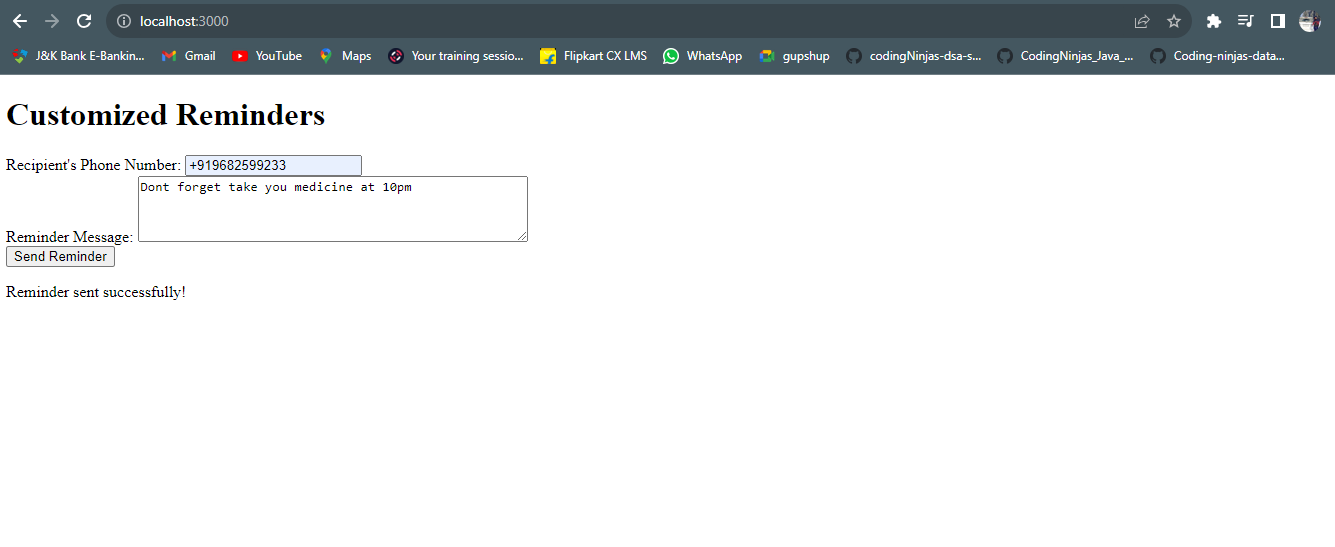
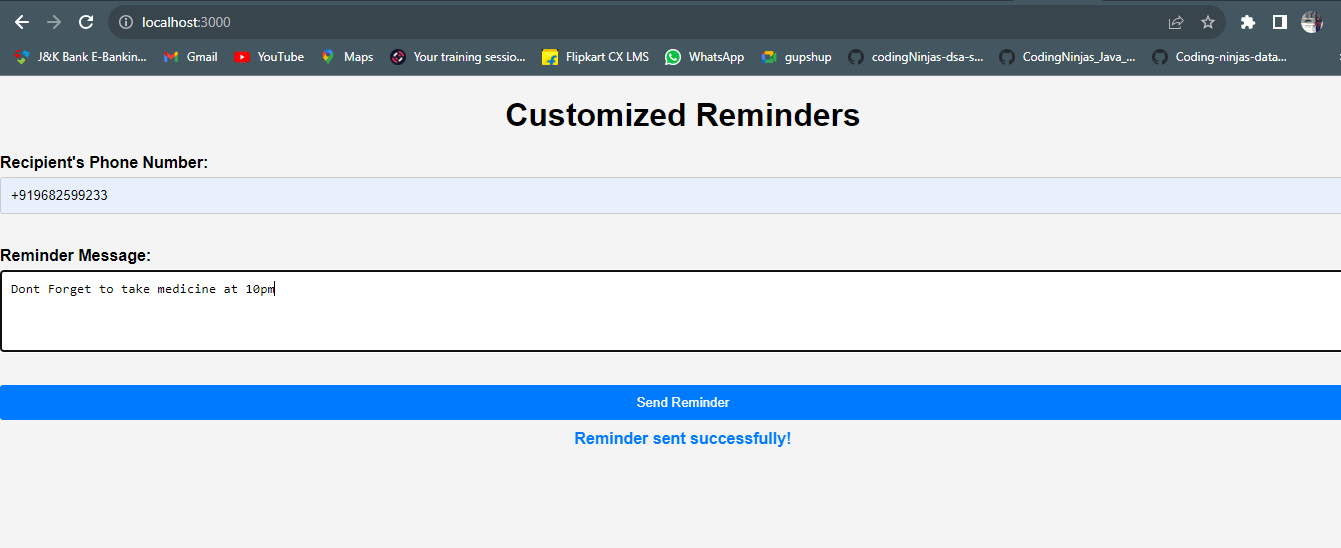
Last commit

diff --git a/public/style.css b/public/style.css
@@ -1,0 +1,59 @@
+body {
+    font-family: Arial, sans-serif;
+    margin: 0;
+    padding: 0;
+    background-color: #f4f4f4;
+  }
+  
+  .container {
+    max-width: 600px;
+    margin: 0 auto;
+    padding: 20px;
+    background-color: #fff;
+    border-radius: 5px;
+    box-shadow: 0 2px 4px rgba(0, 0, 0, 0.1);
+  }
+  
+  h1 {
+    text-align: center;
+    margin-bottom: 20px;
+  }
+  
+  form {
+    display: flex;
+    flex-direction: column;
+  }
+  
+  label {
+    font-weight: bold;
+    margin-bottom: 5px;
+  }
+  
+  input[type="text"],
+  textarea {
+    padding: 10px;
+    margin-bottom: 15px;
+    border: 1px solid #ccc;
+    border-radius: 3px;
+  }
+  
+  button {
+    padding: 10px;
+    background-color: #007bff;
+    color: #fff;
+    border: none;
+    border-radius: 3px;
+    cursor: pointer;
+  }
+  
+  button:hover {
+    background-color: #0056b3;
+  }
+  
+  p {
+    text-align: center;
+    margin-top: 10px;
+    color: #007bff;
+    font-weight: bold;
+  }
+  

diff --git a/public/index.html b/public/index.html
@@ -3,6 +3,7 @@
 <head>
   <meta charset="UTF-8">
   <meta name="viewport" content="width=device-width, initial-scale=1.0">
+  <link rel="stylesheet" href="style.css">
   <title>Reminder System</title>
 </head>
 <body>
